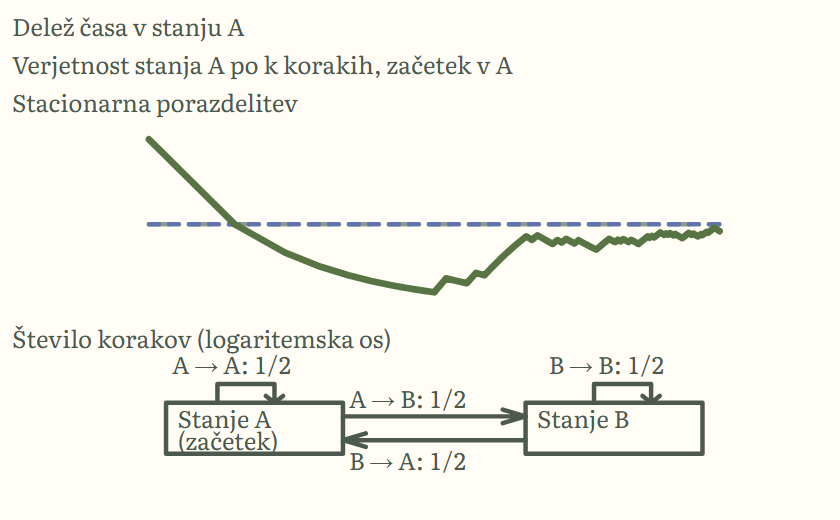
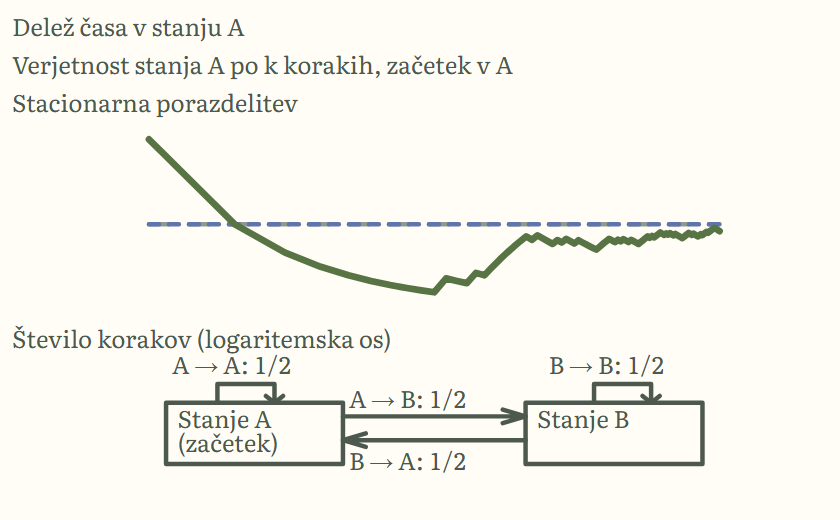
fix: recapture the Markov chapter card after the box layout change
74554ee2 made the state boxes taller; the card now shows "(začetek)"
inside box A with padding. The frame expectation follows the new box
bottom (-0,91). Other randomness PNGs byte-identical.

Claude-Session: https://claude.ai/code/session_01UfEZWLH6vUJsFPursrRgkJ

Changed region(s): [[0.1857, 0.8308, 0.4333, 0.9231], [0.619, 0.8615, 0.8357, 0.9231]]

diff --git a/docs/reviews/feature-streams/families-prep/notes/f5-randomness.md b/docs/reviews/feature-streams/families-prep/notes/f5-randomness.md
@@ -57,3 +57,10 @@
 - Layout check through the route (not shipped; `markov-max-*`, `interval-max-*` here). Markov n = 100 000, a = 80, b = 90: at 1366 the y tick labels ("1,2" and "-0,2") overprint the first caption row and the log-axis title, and at 390 the tick "1,4" overprints "Delež časa v stanju A"; graph layout, not owned, to the handler. Interval n = 10 000, sample size 100: captions clear at 1366 and 390 (law caption wraps to four lines at 390, clear of the bars).
 - Copy: alt and caption per new id; no share, stationary value, miss count or coverage.
 - Checks: script test, `just unit src/learning/chapter src/learning/content/familyChapters.test.ts`, lint, rawcheck green; tooling-test and tsc see the report. Not run: smoke test, `demonstration-preview-capture.test.cjs`.
+
+## Markov card recapture (handler 34)
+
+- `74554ee2` made the state boxes taller (bottom y -0.91 instead of -0.85 at drop 0.2). The capture refused the frame (missing curve samples at y = -0.85); the box A expectation in `randomnessFrames` (generator, comment and samples) now reads -0.91. Window unchanged.
+- Recaptured with `--chapter randomness` / `--family randomness` against `just preview 4527` (stopped); logs and the PNG in `.command-logs/rand-c/f4b/`. Only the Markov PNG and manifest changed; the other five PNGs (interval card included) are byte-identical (`sha256` before/after).
+- Viewed: three caption rows, share curve and dashed line, axis title, box diagram with "(začetek)" inside box A with padding below it, arrows and loops clear, nothing overprinting. Alt unchanged (still accurate).
+- Checks: script test, `just unit src/learning/chapter`, lint, `just tooling-test` green. Not run: smoke test.
